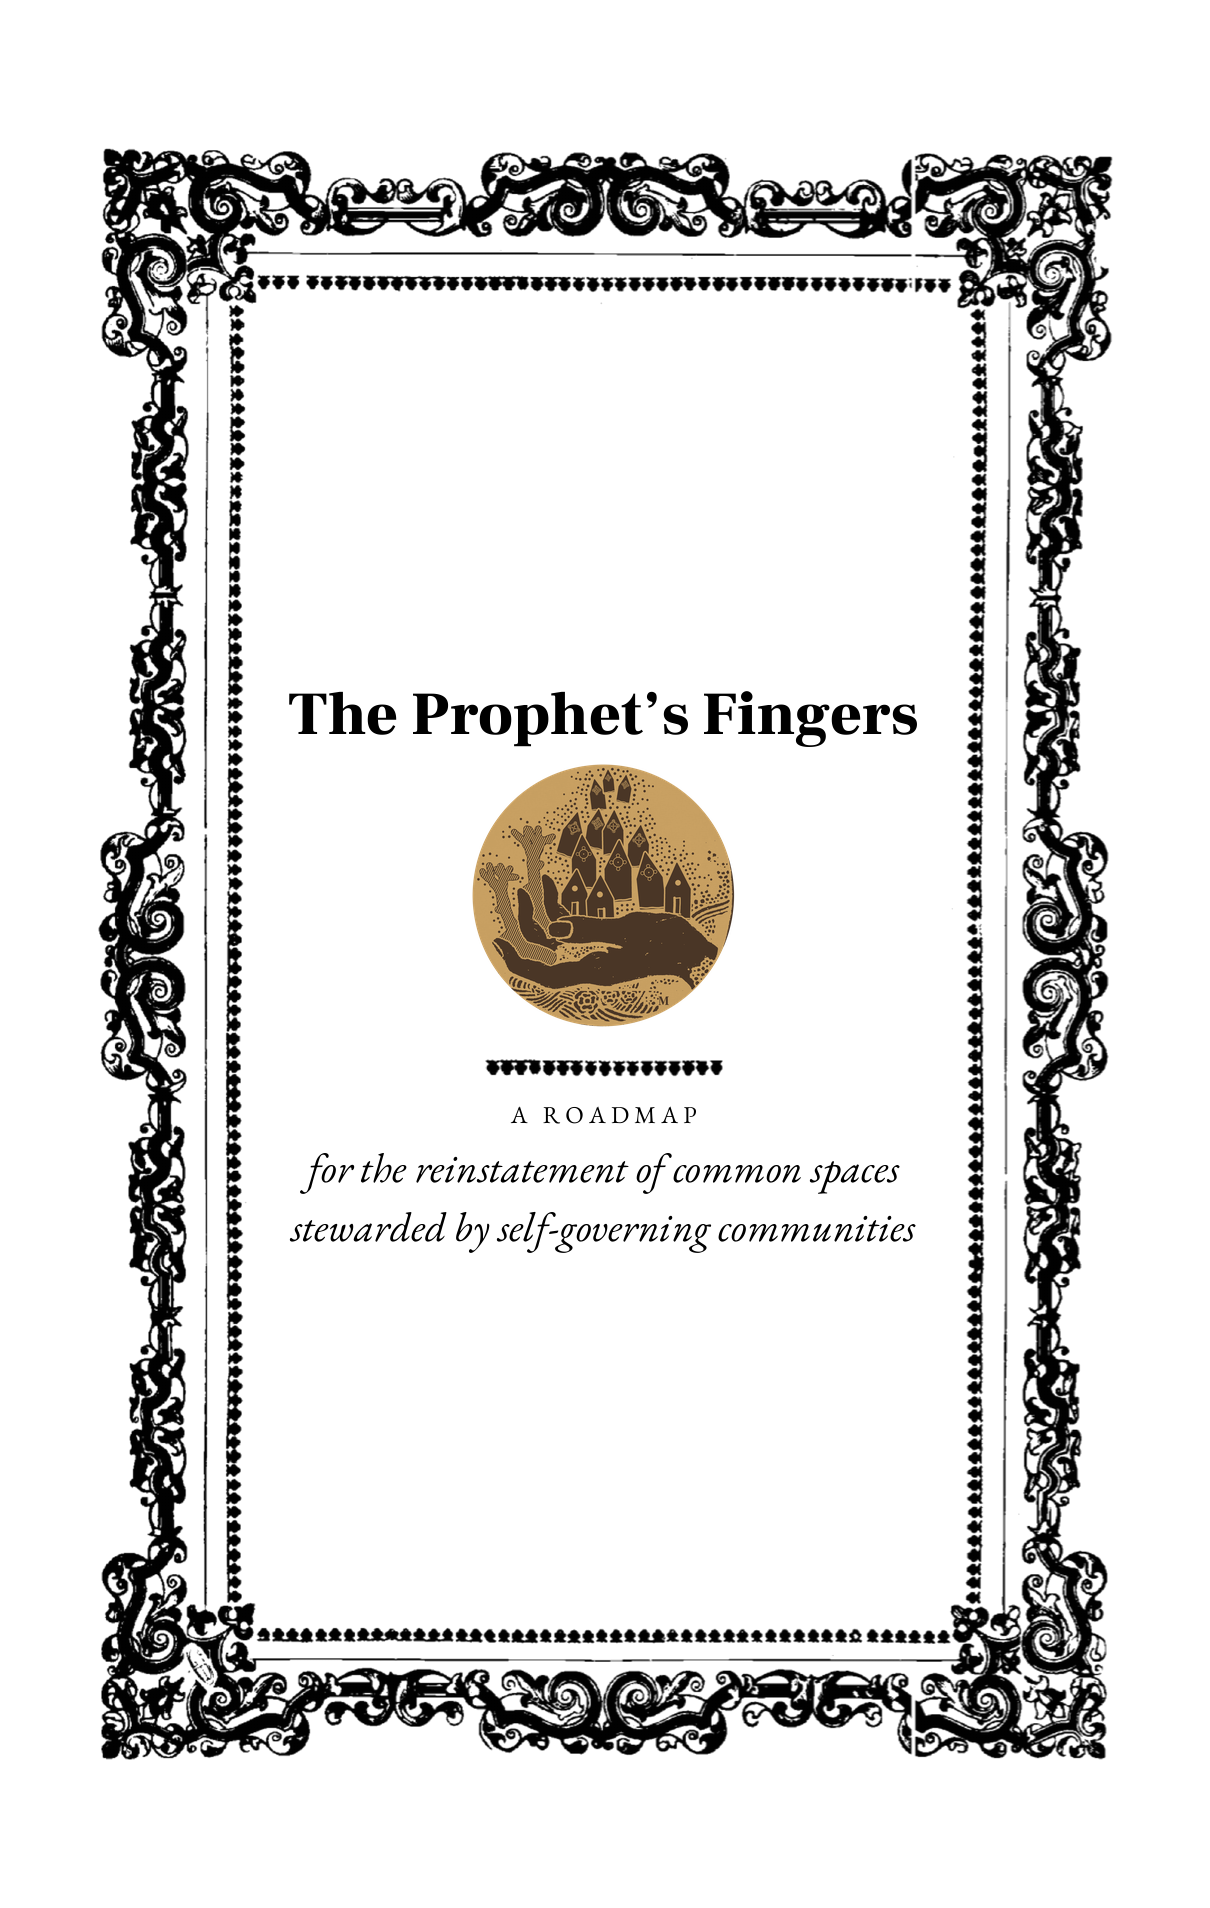
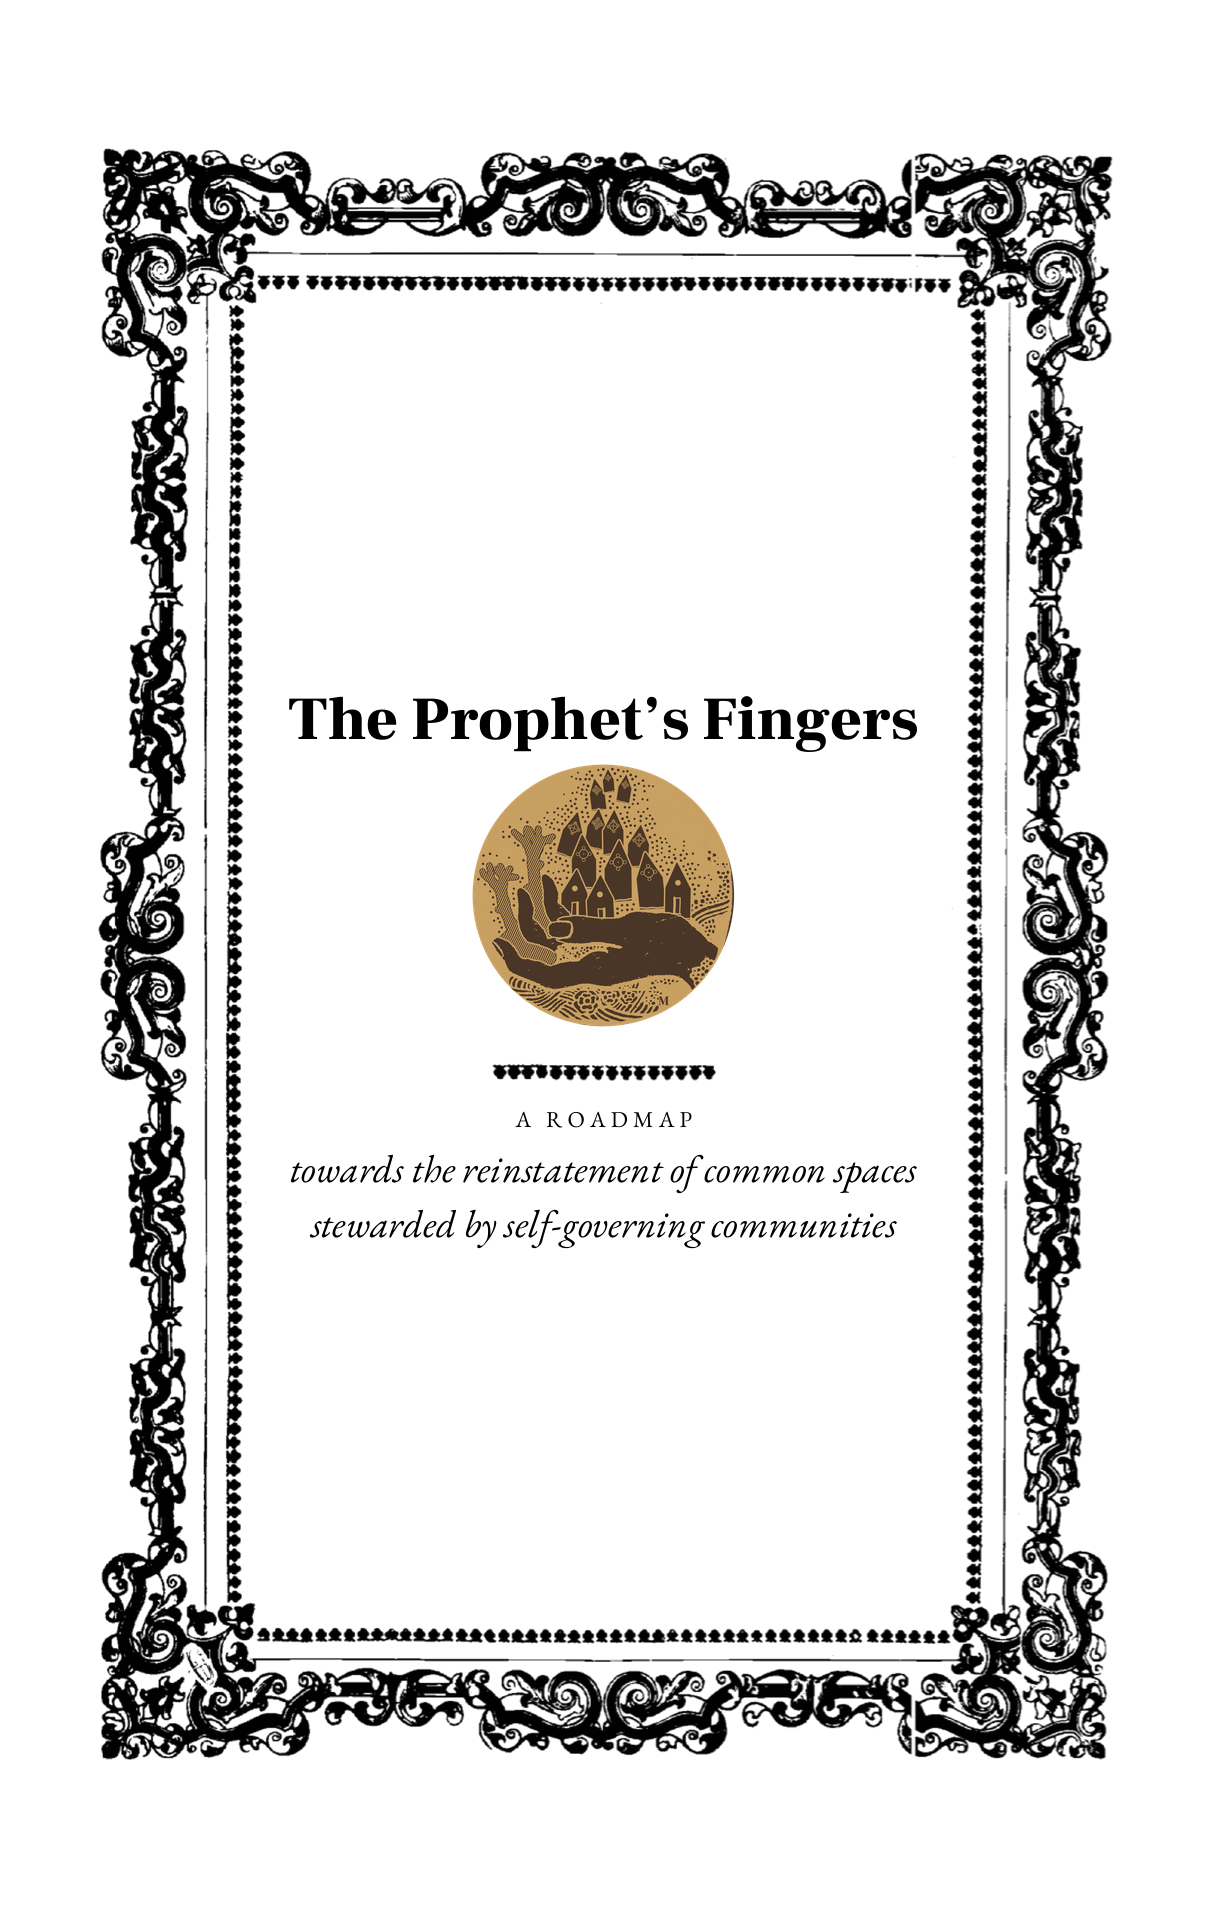
Subtitle: back to 'towards'
Claude-Session: https://claude.ai/code/session_01VD2e2WW3sL9SzusgLwjJ3E

diff --git a/index.html b/index.html
@@ -3,7 +3,7 @@
 <head>
 <meta charset="utf-8">
 <meta name="viewport" content="width=device-width, initial-scale=1, viewport-fit=cover">
-<meta name="description" content="A roadmap for the reinstatement of common spaces stewarded by self-governing communities.">
+<meta name="description" content="A roadmap towards the reinstatement of common spaces stewarded by self-governing communities.">
 <style>:root{color-scheme:light;padding-top:env(safe-area-inset-top,0px);padding-bottom:env(safe-area-inset-bottom,0px)}body{margin:0}img{max-width:100%}[hidden]{display:none!important}</style>
 <title>The Prophet’s Fingers</title>
 <meta name="claude:viewport-fit-sides" content="cover">
@@ -168,9 +168,9 @@ footer.end { text-align: center; display: flex; flex-direction: column; gap: 1re
 </head>
 <body>
 <main class="page">
-  <h1 class="sr">The Prophet’s Fingers: a roadmap for the reinstatement of common spaces stewarded by self-governing communities</h1>
+  <h1 class="sr">The Prophet’s Fingers: a roadmap towards the reinstatement of common spaces stewarded by self-governing communities</h1>
 
-  <section class="sheet"><div class="sheet-in cover"><img src="img/title.png?v=d6e41c2a" width="1210" height="1908" alt="Title page: The Prophet’s Fingers. A roadmap for the reinstatement of common spaces stewarded by self-governing communities. In an ornamental border."></div><span></span></section>
+  <section class="sheet"><div class="sheet-in cover"><img src="img/title.png?v=214eb841" width="1210" height="1908" alt="Title page: The Prophet’s Fingers. A roadmap towards the reinstatement of common spaces stewarded by self-governing communities. In an ornamental border."></div><span></span></section>
 
   <!-- the two quotations sit side by side where they both fit; on a phone each gets its own page -->
   <section class="sheet only-wide"><div class="sheet-in wide pair" aria-label="Two quotations">
@@ -247,7 +247,7 @@ footer.end { text-align: center; display: flex; flex-direction: column; gap: 1re
 <figure class="scan"><img src="img/alexander_ownership.png?v=64d908a5" width="1770" height="1014" alt="Scanned excerpt from A Pattern Language, p. 201: the deed to one home carries part ownership in its cluster and neighborhood; each level is a political unit."><figcaption>Christopher Alexander, <i>A Pattern Language</i> (1977), p. 201</figcaption></figure></div>
 </details></div>
     <footer class="end getpdf" id="getpdf">
-      <a class="dl" href="The_Prophets_Fingers.pdf?v=f7b7b47b" download="The Prophets Fingers.pdf">Download the PDF</a>
+      <a class="dl" href="The_Prophets_Fingers.pdf?v=cd6e9919" download="The Prophets Fingers.pdf">Download the PDF</a>
       <span class="note" id="dlnote" aria-live="polite"></span>
       <span class="contact" id="contact" data-u="mendelyaf" data-d="gmail.com">mendelyaf [at] gmail [dot] com</span>
       <button type="button" class="copy" id="copymail" hidden>Copy email</button>
